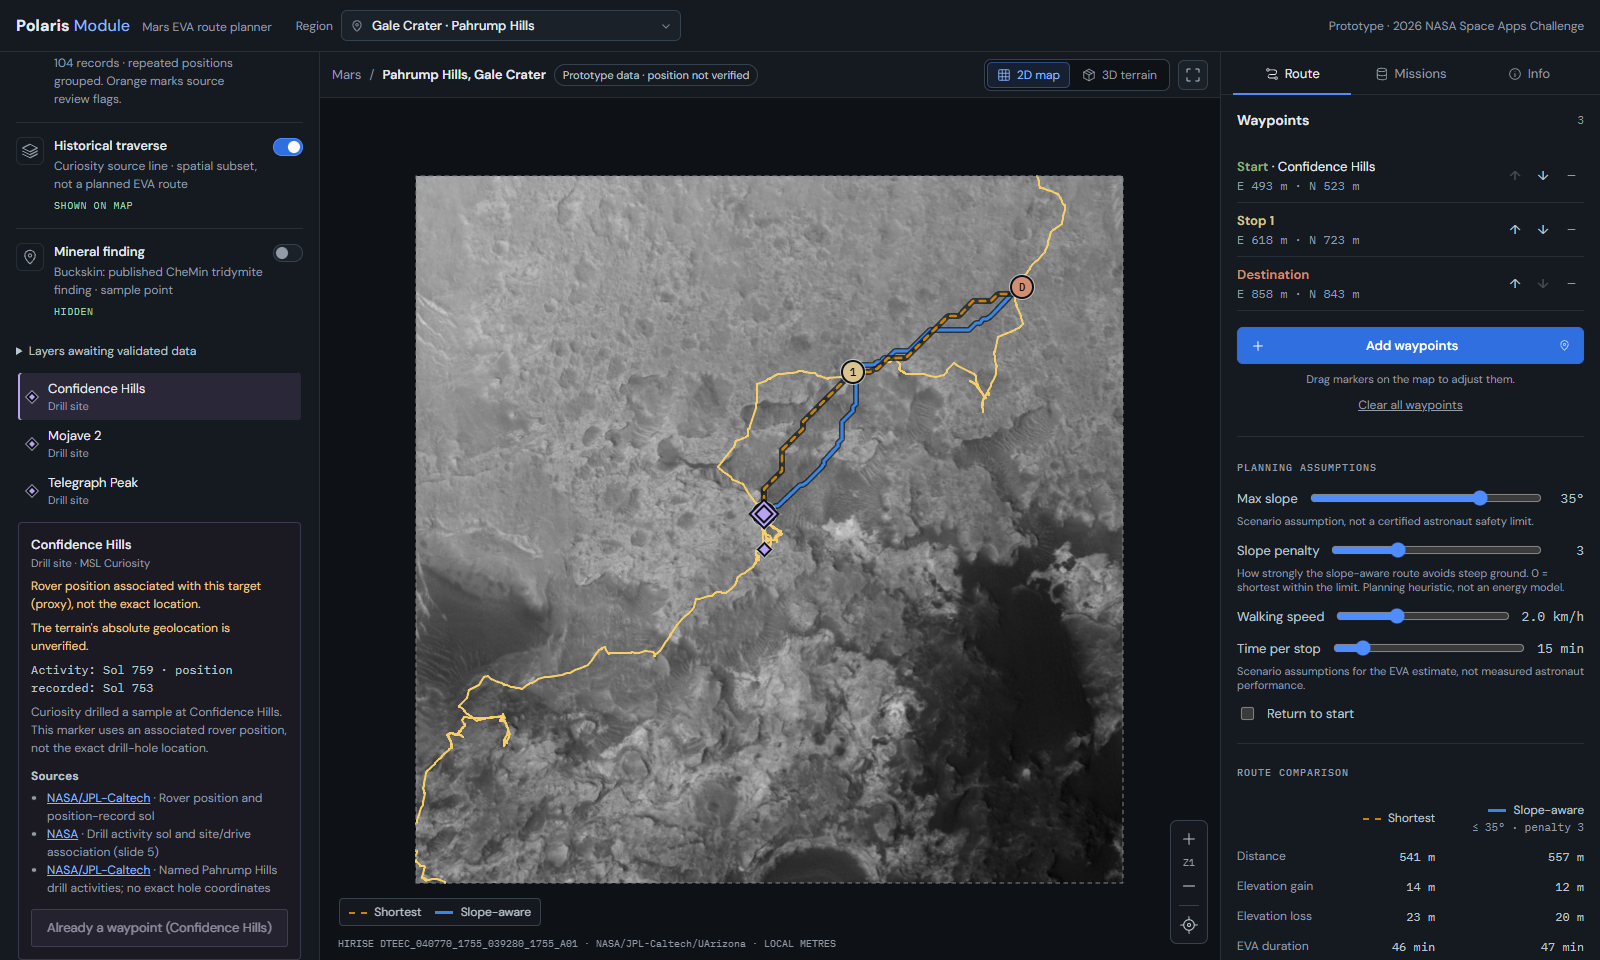
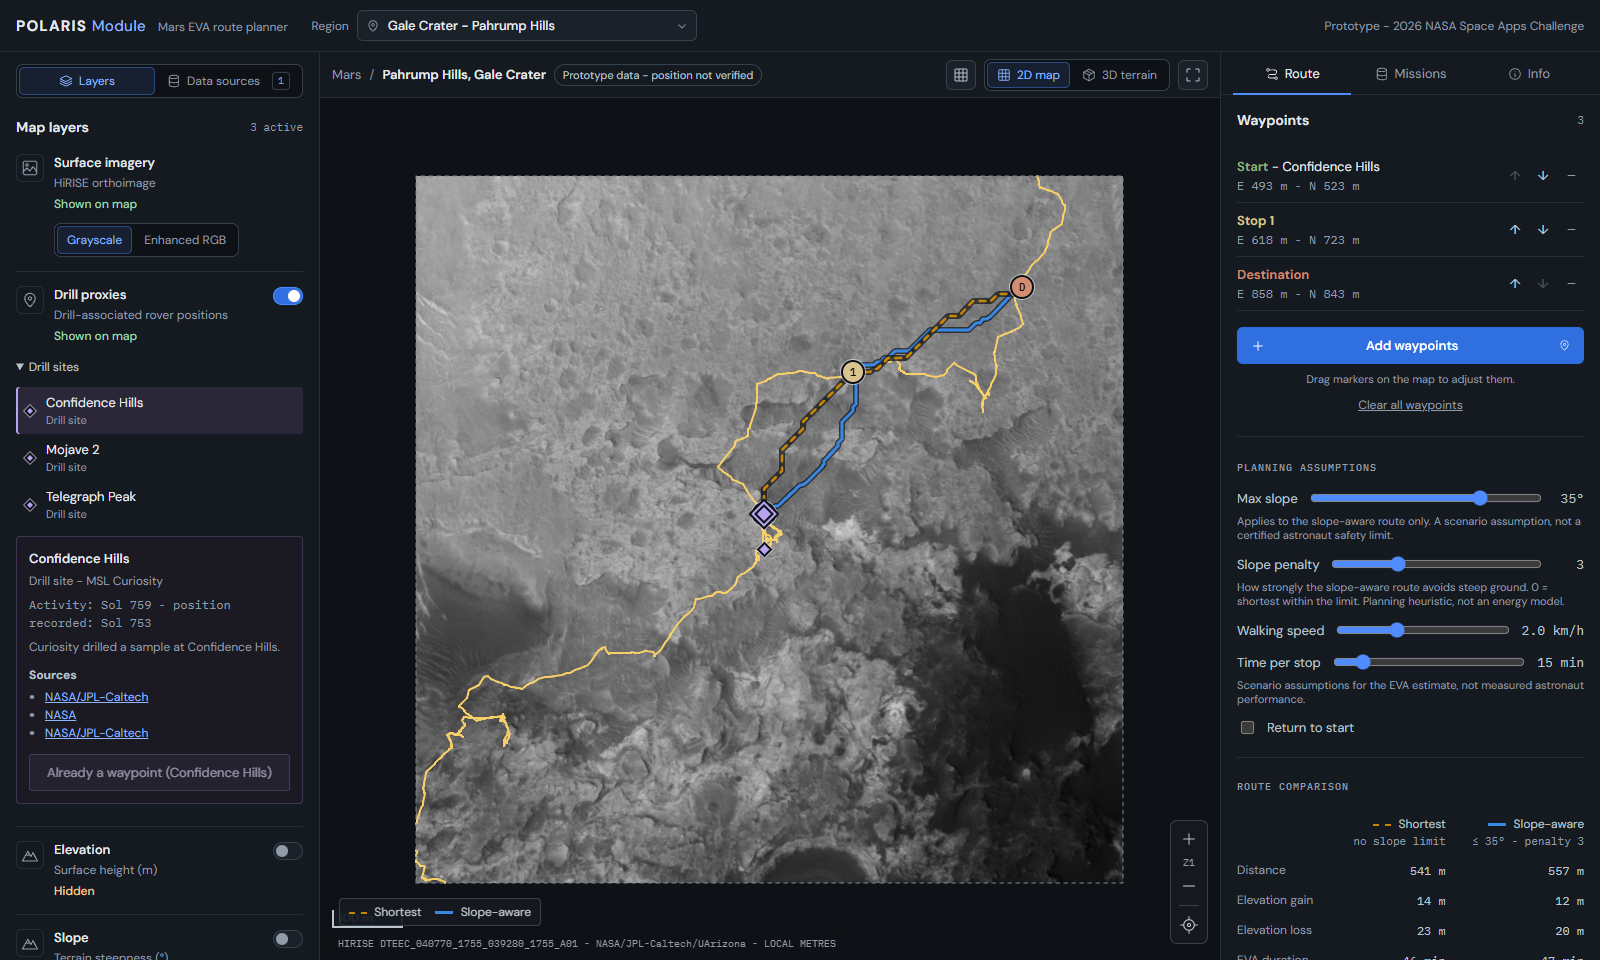
fix: spell the project POLARIS Module and state that the shortest route ignores the slope limit
- Restores the official spelling "POLARIS Module" (capital POLARIS) in the
  app header, page titles, Layer Lab, README, error message and comments.
  The challenge title and package/file identifiers are unchanged.
- Slope-limit note (open finding from the terrain review): the planner now
  says the Max slope applies to the slope-aware route only, labels the
  Shortest column "no slope limit", and explains under the comparison table
  that the shortest route only avoids cells without elevation data.
- The mission report and its JSON export carry the same statement in their
  disclaimers, with a test.
- README: walkthrough matches the current panel (collapsed Drill sites, grid
  button, scale bar); the grid paragraph that landed under License now sits
  in the walkthrough; screenshots retaken.

diff --git a/src/features/layerLab/main.ts b/src/features/layerLab/main.ts
@@ -36,7 +36,7 @@ interface LayerEntry {
 const base = import.meta.env.BASE_URL
 const root = document.querySelector<HTMLDivElement>('#layer-lab')!
 root.innerHTML = `
-  <header><div><span class="eyebrow">DEVELOPER B - LOCAL DATA REVIEW</span><h1>Polaris Module <span>Layer Lab</span></h1></div><a class="app-link">Open planner ↗</a></header>
+  <header><div><span class="eyebrow">DEVELOPER B - LOCAL DATA REVIEW</span><h1>POLARIS Module <span>Layer Lab</span></h1></div><a class="app-link">Open planner ↗</a></header>
   <div class="lab-layout"><aside><p class="intro">Pahrump Hills - 1 × 1 km<br>Compare layers and send feedback. Previews do not change routing or approved targets.</p>
     <p id="load-status" role="status">Loading terrain and research context…</p><div id="layer-controls"></div>
     <section class="feedback"><h2>Your feedback</h2><label for="feedback-notes">Which layers help? What looks wrong or unclear?</label><textarea id="feedback-notes" rows="4" placeholder="Layer name, preferred opacity, observations…"></textarea><button id="download-feedback" disabled>Download feedback JSON</button><p>Saved locally with layer settings and the terrain version.</p></section>

diff --git a/src/features/routing/components/RouteComparison.tsx b/src/features/routing/components/RouteComparison.tsx
@@ -65,6 +65,7 @@ export function RouteComparison({
             </th>
             <th scope="col">
               <span className="legend-swatch shortest" aria-hidden="true" /> Shortest
+              <span className="column-detail">no slope limit</span>
             </th>
             <th scope="col">
               <span className="legend-swatch slope-limited" aria-hidden="true" /> Slope-aware
@@ -89,6 +90,14 @@ export function RouteComparison({
           </tr>
         </tbody>
       </table>
+
+      <div className="summary-note">
+        <Icon name="info" size={13} />
+        <span>
+          The shortest route ignores the slope limit and only avoids cells without
+          elevation data. Only the slope-aware route applies it.
+        </span>
+      </div>
 
       {alternatives.identical && (
         <p className="route-note">Both profiles give the same route.</p>

diff --git a/src/features/mission/report/missionReport.ts b/src/features/mission/report/missionReport.ts
@@ -182,6 +182,7 @@ export function buildMissionReport(input: MissionReportInput): MissionReport {
       'Prototype planning output for the 2026 NASA Space Apps Challenge; not an operationally validated navigation or safety product.',
       `Distances are planar grid distances on the terrain's ${cellSize} m routing grid; no Earth geodesy.`,
       'Slope limit, slope penalty, walking speed and stop time are user scenario assumptions, not certified limits.',
+      'The shortest route ignores the slope limit and only avoids cells without elevation data; only the slope-aware route applies it.',
       'EVA duration is a simple planning estimate (walking time plus stop time), not a physiological model.',
       ...(scienceTargets
         ? [

diff --git a/src/App.css b/src/App.css
@@ -1,5 +1,5 @@
 /*
- * Polaris Module layout. The map is the work surface: on wide screens the
+ * POLARIS Module layout. The map is the work surface: on wide screens the
  * workspace fills the window and the side panels scroll inside themselves, so
  * a growing waypoint list never moves the map under the cursor.
  */
@@ -40,13 +40,14 @@
   white-space: nowrap;
 }
 .brand-name {
-  font-size: 16px;
+  font-size: 15px;
   font-weight: 700;
-  letter-spacing: 0.2px;
+  letter-spacing: 1.2px;
   color: var(--text);
 }
 .brand-module {
   font-weight: 450;
+  letter-spacing: 0.4px;
   color: var(--accent-text);
 }
 .brand-subtitle {

diff --git a/src/features/missions/missions.test.ts b/src/features/missions/missions.test.ts
@@ -117,7 +117,7 @@ describe('parseMissionRecord', () => {
   const json = () => JSON.parse(JSON.stringify(record())) as Record<string, unknown>
 
   it('rejects other files and future versions with a clear reason', () => {
-    expect(() => parseMissionRecord({ format: 'marswalk-mission-report', version: 1 })).toThrow('not a Polaris Module mission file')
+    expect(() => parseMissionRecord({ format: 'marswalk-mission-report', version: 1 })).toThrow('not a POLARIS Module mission file')
     expect(() => parseMissionRecord({ ...json(), version: 2 })).toThrow('newer version of the planner (format version 2)')
   })
 

diff --git a/index.html b/index.html
@@ -7,9 +7,9 @@
     <meta name="theme-color" content="#0e1115" />
     <meta
       name="description"
-      content="Polaris Module — a prototype Mars EVA route planner on HiRISE terrain of Pahrump Hills, Gale Crater. 2026 NASA Space Apps Challenge."
+      content="POLARIS Module — a prototype Mars EVA route planner on HiRISE terrain of Pahrump Hills, Gale Crater. 2026 NASA Space Apps Challenge."
     />
-    <title>Polaris Module - Mars EVA route planner</title>
+    <title>POLARIS Module - Mars EVA route planner</title>
   </head>
   <body>
     <div id="root"></div>

diff --git a/src/features/missions/missionRecord.ts b/src/features/missions/missionRecord.ts
@@ -162,7 +162,7 @@ function validateOrigin(value: unknown): boolean {
 /** Validates untrusted JSON (an imported file or a stored library entry). */
 export function parseMissionRecord(input: unknown): MissionRecord {
   if (!isRecord(input) || input.format !== MISSION_FORMAT) {
-    throw new MissionFormatError(['this is not a Polaris Module mission file'])
+    throw new MissionFormatError(['this is not a POLARIS Module mission file'])
   }
   if (input.version !== MISSION_VERSION) {
     throw new MissionFormatError([

diff --git a/src/features/routing/components/RoutePlanner.tsx b/src/features/routing/components/RoutePlanner.tsx
@@ -165,7 +165,8 @@ export function RoutePlanner({
           <output>{maxSlopeDegrees}°</output>
         </label>
         <p id="slope-hint" className="setting-hint">
-          Scenario assumption, not a certified astronaut safety limit.
+          Applies to the slope-aware route only. A scenario assumption, not a
+          certified astronaut safety limit.
         </p>
         <label className="setting-row">
           <span>Slope penalty</span>

diff --git a/src/features/mission/report/missionReport.test.ts b/src/features/mission/report/missionReport.test.ts
@@ -301,6 +301,7 @@ describe('buildMissionReport', () => {
     expect(report.assumptions).toEqual(assumptions)
     expect(report.disclaimers.join(' ')).toMatch(/not an operationally validated/)
     expect(report.disclaimers.join(' ')).toMatch(/scenario assumptions/)
+    expect(report.disclaimers.join(' ')).toMatch(/shortest route ignores the slope limit/)
     expect(report.disclaimers.join(' ')).toMatch(/not a physiological model/)
   })
 

diff --git a/src/components/layout/AppHeader.tsx b/src/components/layout/AppHeader.tsx
@@ -11,7 +11,7 @@ export function AppHeader({ regionId, onRegionChange }: AppHeaderProps) {
     <header className="app-header">
       <div className="brand">
         <h1 className="brand-name">
-          Polaris <span className="brand-module">Module</span>
+          POLARIS <span className="brand-module">Module</span>
         </h1>
         <span className="brand-subtitle">Mars EVA route planner</span>
       </div>

diff --git a/src/index.css b/src/index.css
@@ -10,7 +10,7 @@
   -moz-osx-font-smoothing: grayscale;
   color-scheme: dark;
 
-  /* Polaris Module: neutral cool surfaces, one blue accent for interface chrome. */
+  /* POLARIS Module: neutral cool surfaces, one blue accent for interface chrome. */
   --bg: #0e1115;
   --surface: #151a20;
   --surface-raised: #1b2129;

diff --git a/layer-lab.html b/layer-lab.html
@@ -4,7 +4,7 @@
     <meta charset="UTF-8" />
     <meta name="viewport" content="width=device-width, initial-scale=1.0" />
     <meta name="theme-color" content="#13191c" />
-    <title>Polaris Module | Layer Lab</title>
+    <title>POLARIS Module | Layer Lab</title>
   </head>
   <body>
     <div id="layer-lab"></div>
